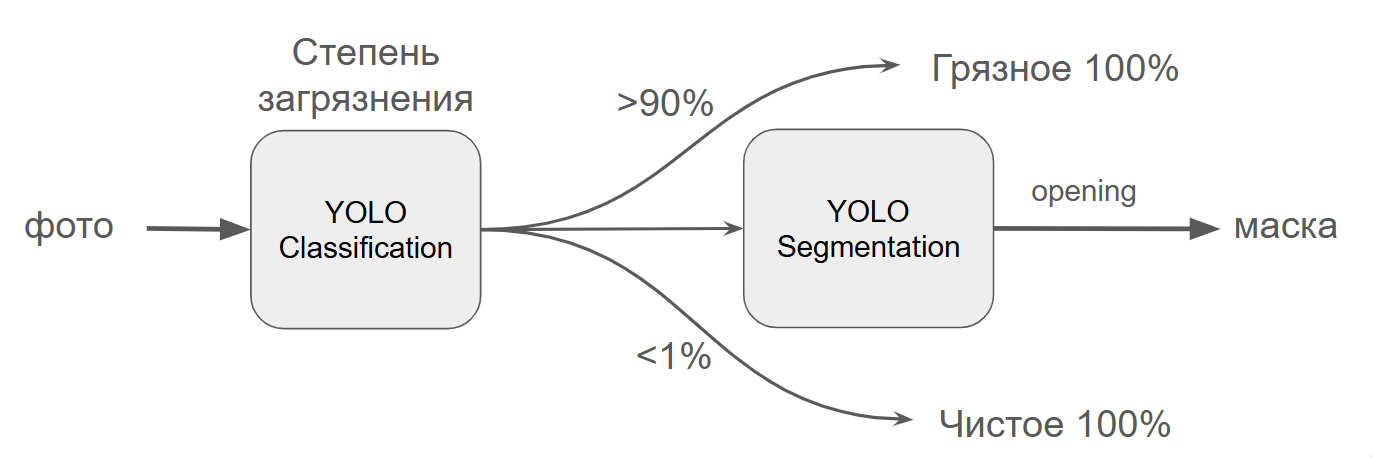
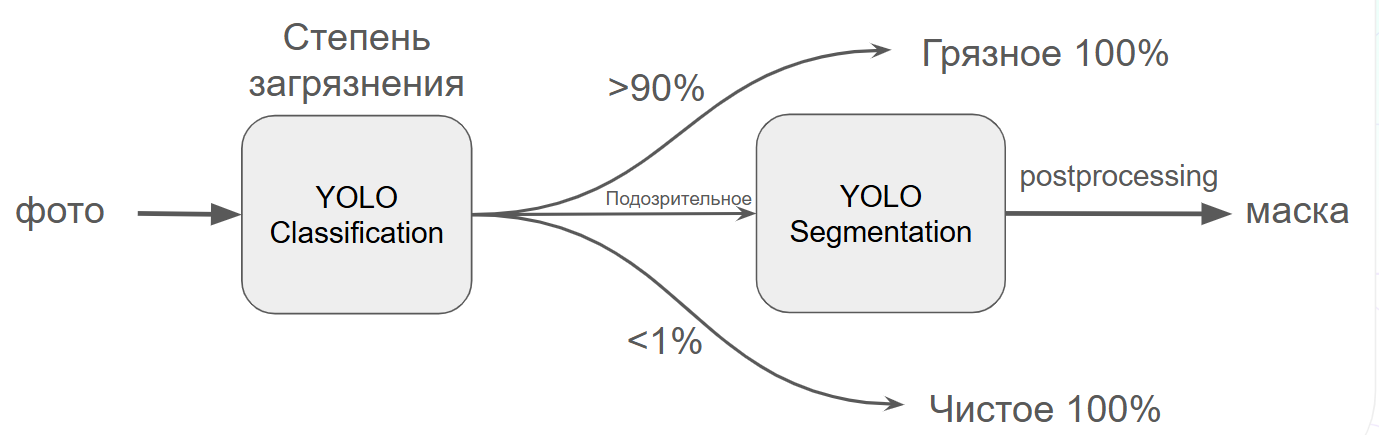
small fixes

diff --git a/core.py b/core.py
@@ -29,10 +29,10 @@ class AIHelper:
             mask = self._infer_yolo_segmenter(img)
             mask = self._mask_postprocessing(mask)
 
-        dirty_degree = round((mask > 0).sum() / mask.size, 2)
+        dirty_degree = (mask > 0).sum() / mask.size
         characteristics = pd.DataFrame(
             [
-                ["Загрязненность, %", dirty_degree],
+                ["Загрязненность, %", round(dirty_degree * 100, 2)],
                 ["Площадь маски, Мп", round(img.size / 1_000_000, 2)],
             ],
             columns=["Характеристика", "Значение"],
@@ -63,6 +63,7 @@ class AIHelper:
 
     def _mask_postprocessing(self, mask, kernel_size=15):
         kernel = cv2.getStructuringElement(cv2.MORPH_ELLIPSE, (kernel_size, kernel_size))
+        # mask = cv2.morphologyEx(mask, cv2.MORPH_CLOSE, kernel)
         mask = cv2.morphologyEx(mask, cv2.MORPH_OPEN, kernel)
         return mask
 
